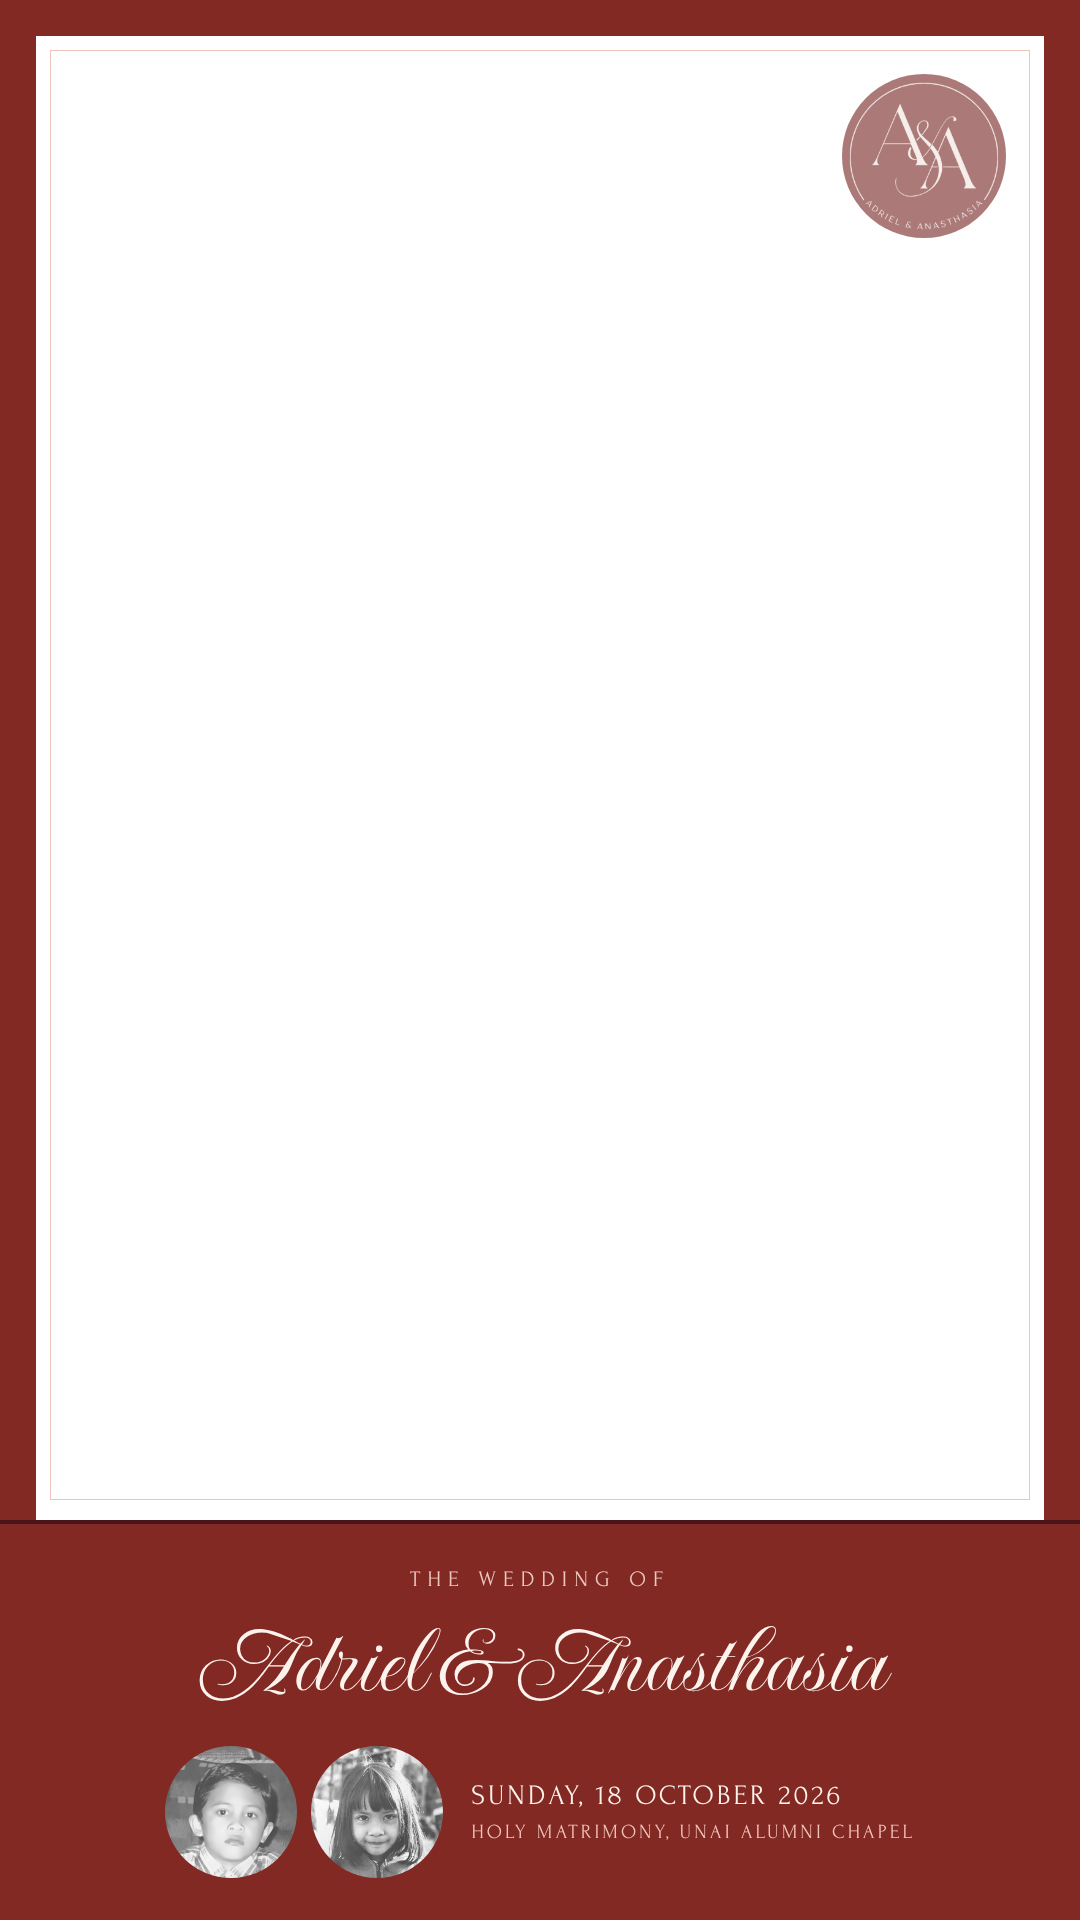
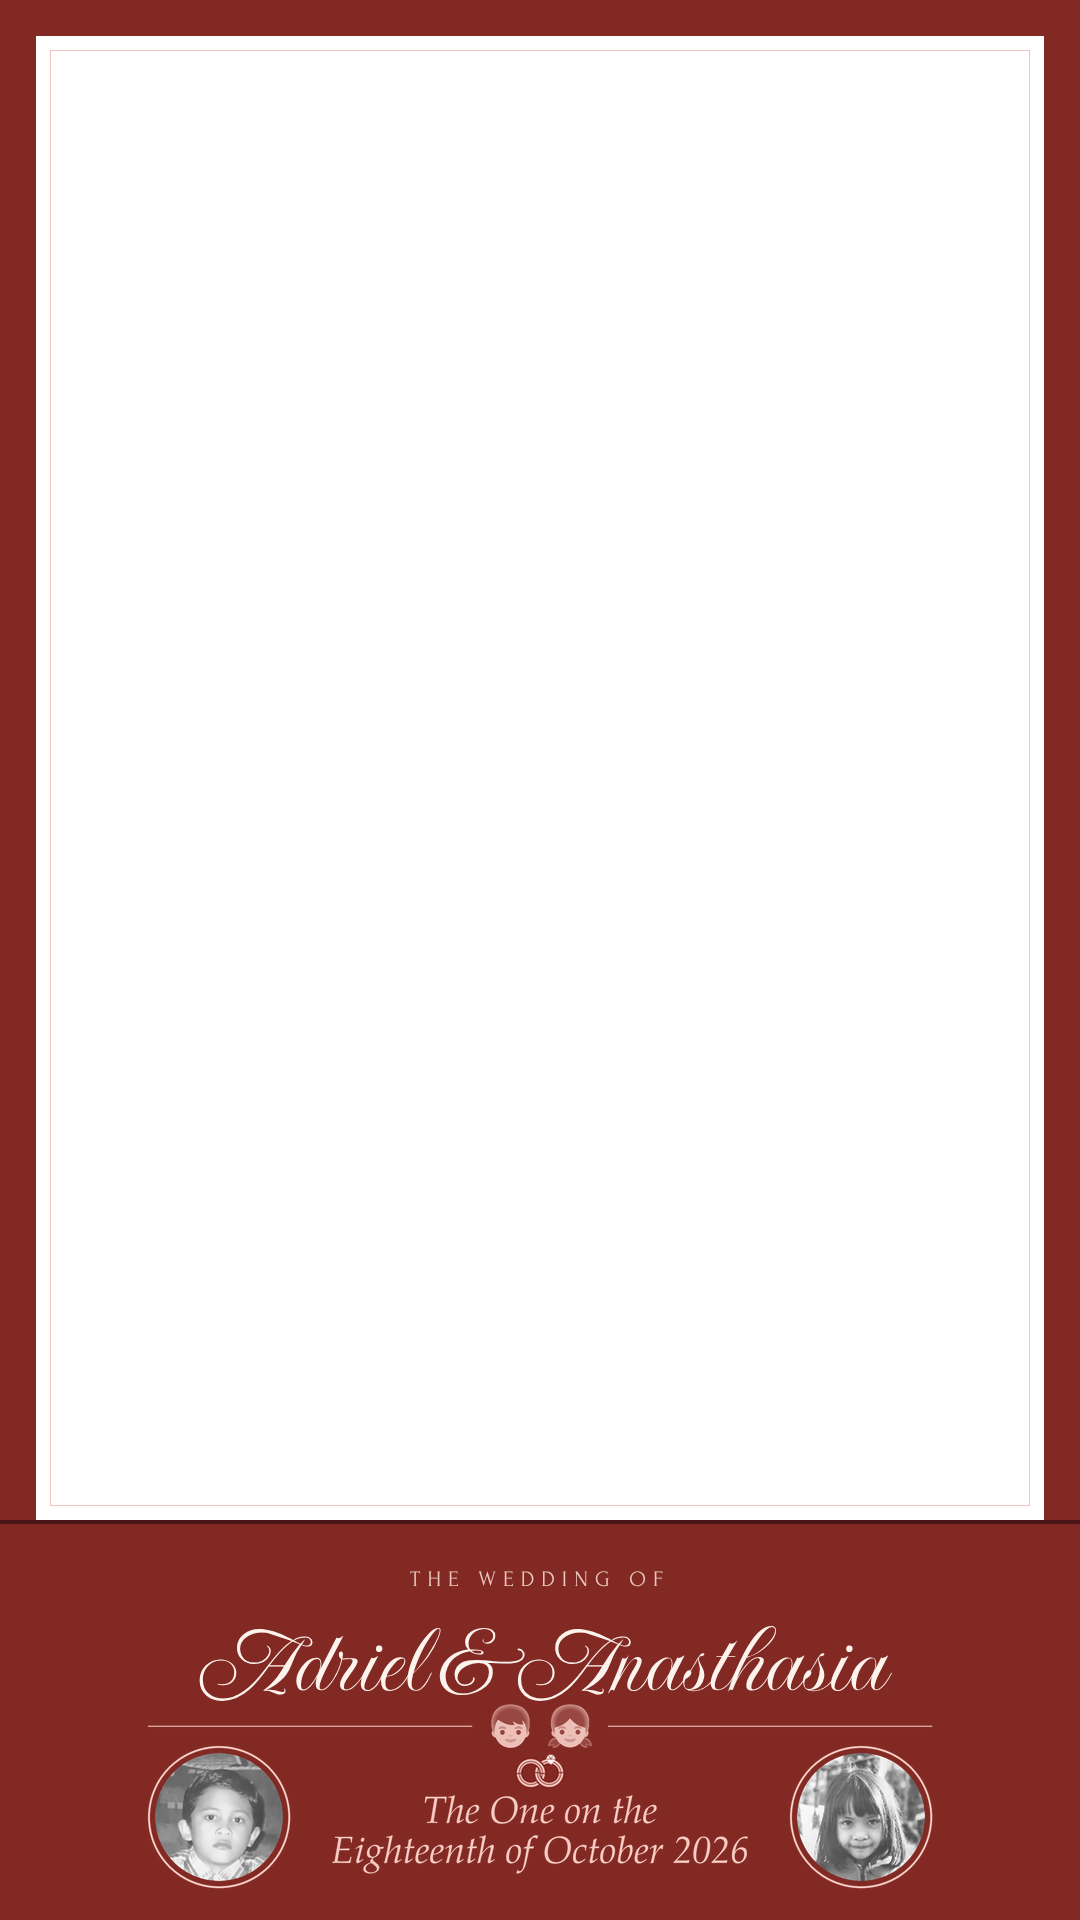
Bingkai Instagram Story: desain baru mengikuti bingkai Morements (tanpa monogram)
Claude-Session: https://claude.ai/code/session_01UUBLka9Sxjaoiu2CfmPSAu

Changed region(s): [[0.1222, 0.875, 0.8556, 1.0], [0.7639, 0.0312, 0.9472, 0.125]]

diff --git a/public/id/wedding/index.html b/public/id/wedding/index.html
@@ -81,13 +81,13 @@
     </div>
     <div class="frames">
       <figure class="frame reveal">
-        <img src="/wedding/story-frame-1.png" width="1080" height="1920" alt="Bingkai 1" loading="lazy">
+        <img src="/wedding/story-frame-1.png?v=2" width="1080" height="1920" alt="Bingkai 1" loading="lazy">
         <figcaption>Bingkai 1, untuk foto tegak</figcaption>
-        <a class="btn btn-gold btn-small" href="/wedding/story-frame-1.png" download="Adriel &amp; Anasthasia - Story frame 1.png">Unduh bingkai 1</a>
+        <a class="btn btn-gold btn-small" href="/wedding/story-frame-1.png?v=2" download="Adriel &amp; Anasthasia - Story frame 1.png">Unduh bingkai 1</a>
       </figure><figure class="frame reveal">
-        <img src="/wedding/story-frame-2.png" width="1080" height="1920" alt="Bingkai 2" loading="lazy">
+        <img src="/wedding/story-frame-2.png?v=2" width="1080" height="1920" alt="Bingkai 2" loading="lazy">
         <figcaption>Bingkai 2, untuk foto mendatar</figcaption>
-        <a class="btn btn-gold btn-small" href="/wedding/story-frame-2.png" download="Adriel &amp; Anasthasia - Story frame 2.png">Unduh bingkai 2</a>
+        <a class="btn btn-gold btn-small" href="/wedding/story-frame-2.png?v=2" download="Adriel &amp; Anasthasia - Story frame 2.png">Unduh bingkai 2</a>
       </figure>
     </div>
     <div class="howto">

diff --git a/public/wedding/index.html b/public/wedding/index.html
@@ -81,13 +81,13 @@
     </div>
     <div class="frames">
       <figure class="frame reveal">
-        <img src="/wedding/story-frame-1.png" width="1080" height="1920" alt="Frame 1" loading="lazy">
+        <img src="/wedding/story-frame-1.png?v=2" width="1080" height="1920" alt="Frame 1" loading="lazy">
         <figcaption>Frame 1, for portrait photos</figcaption>
-        <a class="btn btn-gold btn-small" href="/wedding/story-frame-1.png" download="Adriel &amp; Anasthasia - Story frame 1.png">Download frame 1</a>
+        <a class="btn btn-gold btn-small" href="/wedding/story-frame-1.png?v=2" download="Adriel &amp; Anasthasia - Story frame 1.png">Download frame 1</a>
       </figure><figure class="frame reveal">
-        <img src="/wedding/story-frame-2.png" width="1080" height="1920" alt="Frame 2" loading="lazy">
+        <img src="/wedding/story-frame-2.png?v=2" width="1080" height="1920" alt="Frame 2" loading="lazy">
         <figcaption>Frame 2, for landscape photos</figcaption>
-        <a class="btn btn-gold btn-small" href="/wedding/story-frame-2.png" download="Adriel &amp; Anasthasia - Story frame 2.png">Download frame 2</a>
+        <a class="btn btn-gold btn-small" href="/wedding/story-frame-2.png?v=2" download="Adriel &amp; Anasthasia - Story frame 2.png">Download frame 2</a>
       </figure>
     </div>
     <div class="howto">

diff --git a/build.py b/build.py
@@ -568,9 +568,9 @@ def wedding(lang):
     </div>
     <div class="frames">
       {''.join(f"""<figure class="frame reveal">
-        <img src="/wedding/story-frame-{n}.png" width="1080" height="1920" alt="{T(lang, f'Bingkai {n}', f'Frame {n}')}" loading="lazy">
+        <img src="/wedding/story-frame-{n}.png?v=2" width="1080" height="1920" alt="{T(lang, f'Bingkai {n}', f'Frame {n}')}" loading="lazy">
         <figcaption>{T(lang, f'Bingkai {n}, untuk foto {pi}', f'Frame {n}, for {pe} photos')}</figcaption>
-        <a class="btn btn-gold btn-small" href="/wedding/story-frame-{n}.png" download="Adriel &amp; Anasthasia - Story frame {n}.png">{T(lang, f'Unduh bingkai {n}', f'Download frame {n}')}</a>
+        <a class="btn btn-gold btn-small" href="/wedding/story-frame-{n}.png?v=2" download="Adriel &amp; Anasthasia - Story frame {n}.png">{T(lang, f'Unduh bingkai {n}', f'Download frame {n}')}</a>
       </figure>""" for n, pi, pe in ((1, 'tegak', 'portrait'), (2, 'mendatar', 'landscape')))}
     </div>
     <div class="howto">
